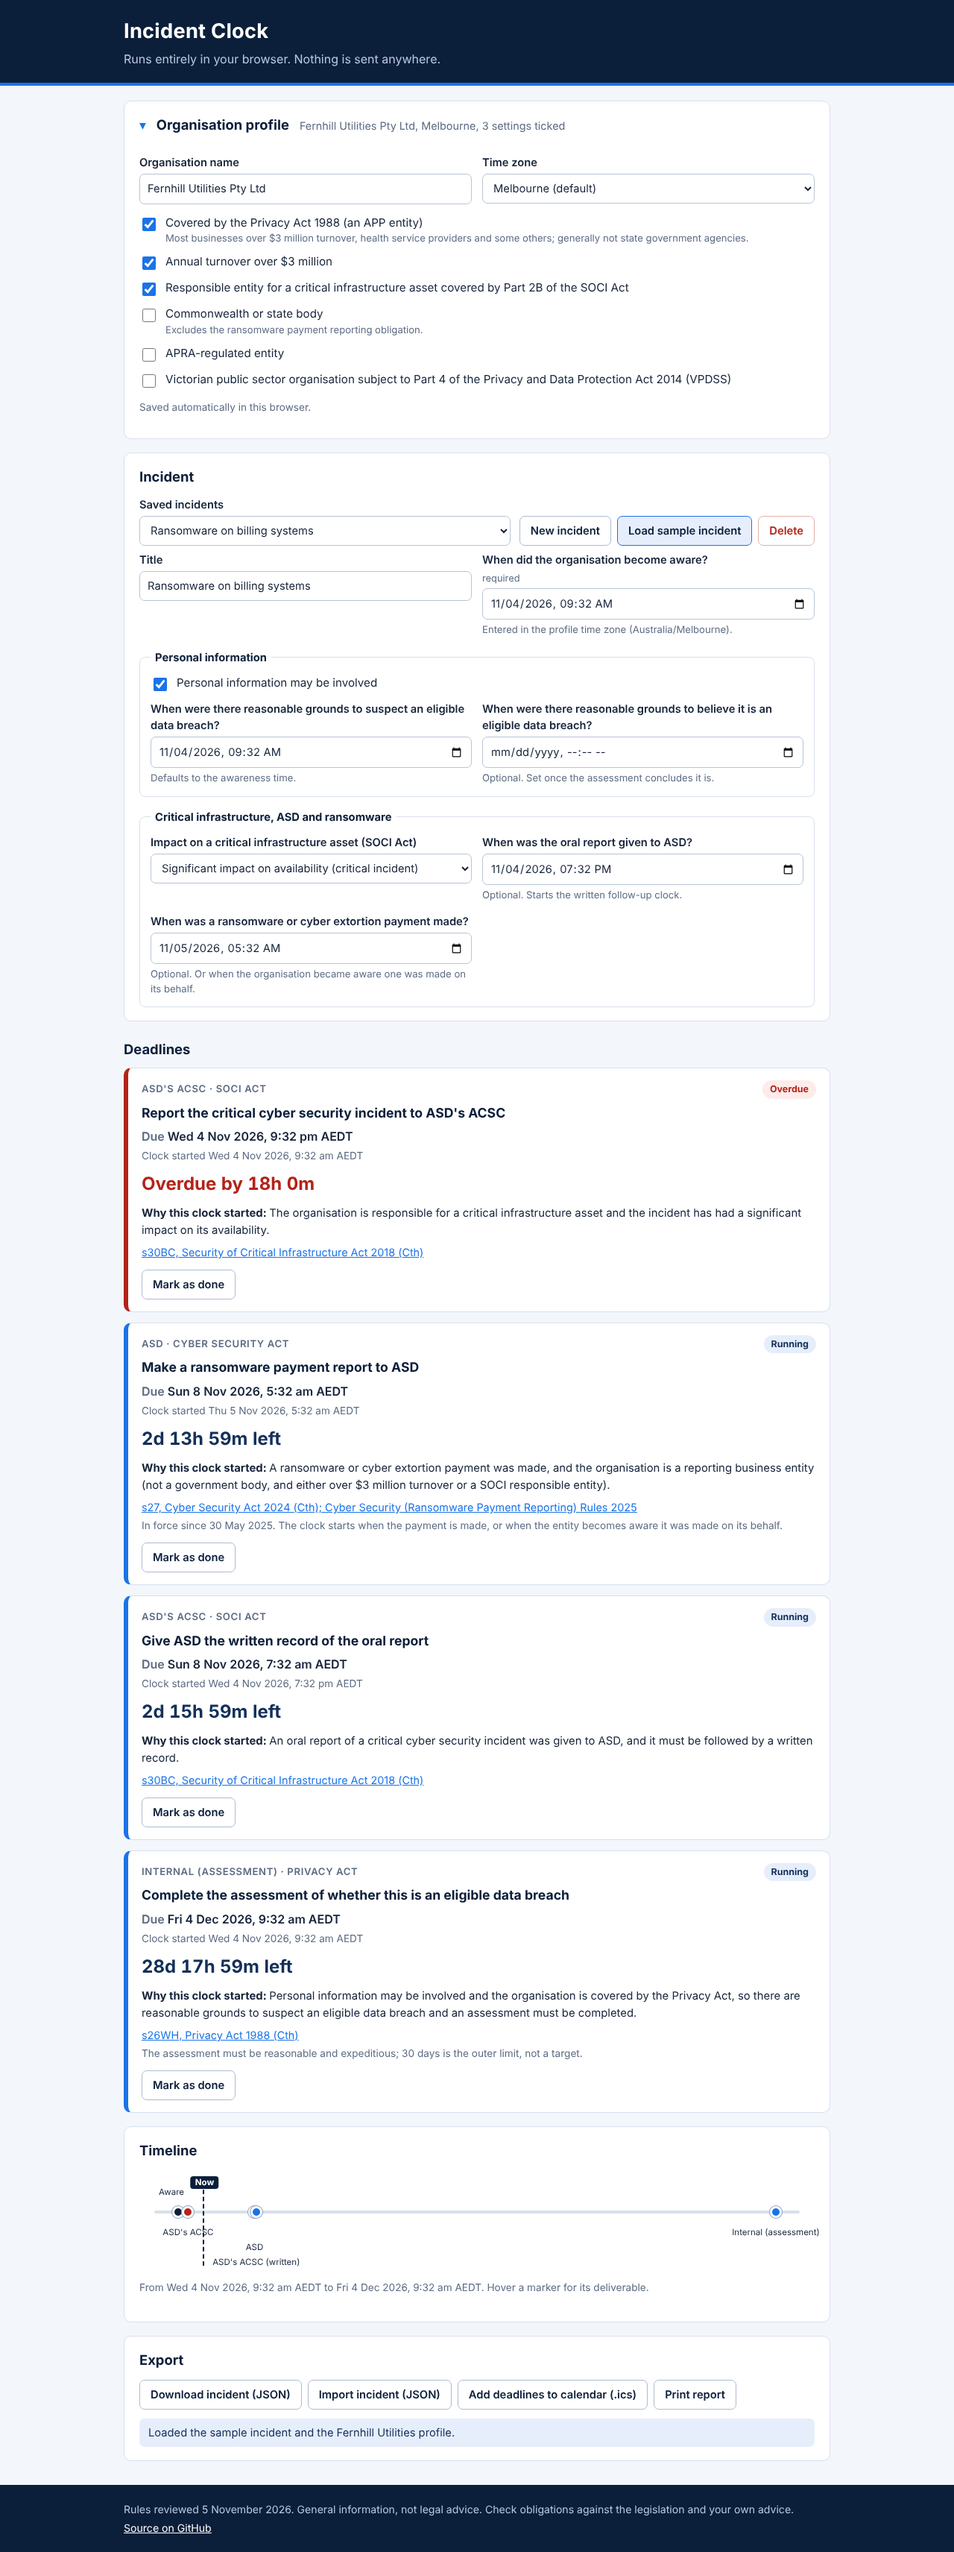
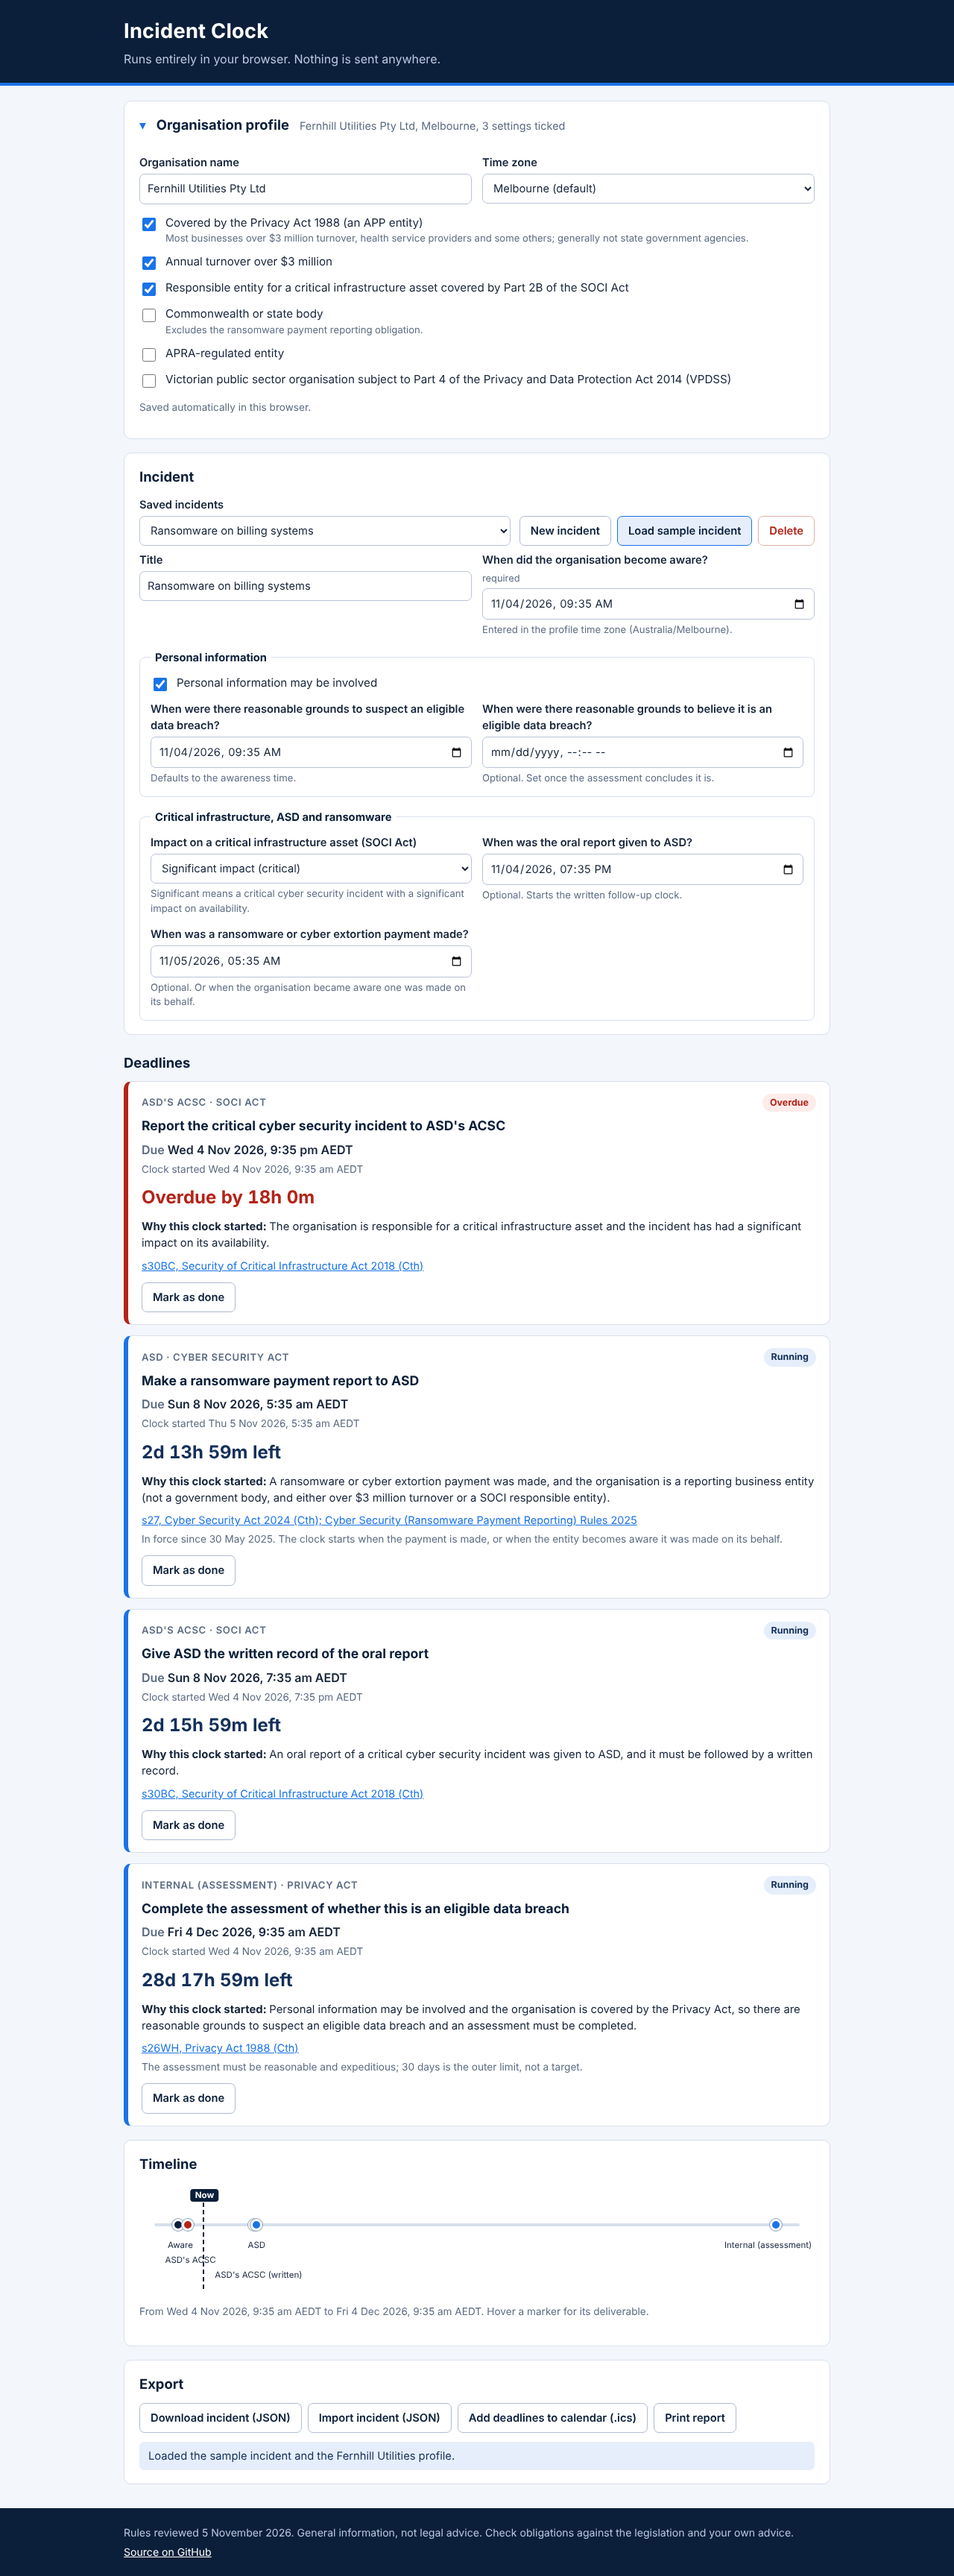
Keep timeline labels apart and fit the impact options on small screens

diff --git a/src/app.js b/src/app.js
@@ -354,19 +354,34 @@ function renderTimeline(clocks, now) {
   const track = h("div", { class: "track" });
   track.append(h("div", { class: "track-line" }));
   track.append(h("div", { class: "marker start", style: `left:${pct(Date.parse(inc.awareAt))}` },
-    h("span", { class: "label lbl-up", text: "Aware" })));
-  let lvl = 0;
-  let prevPos = -Infinity;
-  sorted.forEach((c) => {
-    const pos = (Date.parse(c.dueAt) - lo) / total;
-    lvl = pos - prevPos < 0.16 ? (lvl + 1) % 3 : 0;
-    prevPos = pos;
+    h("span", { class: "label", text: "Aware" })));
+  for (const c of sorted) {
     track.append(h("div", { class: `marker ${c.status}`, style: `left:${pct(Date.parse(c.dueAt))}`, title: `${c.deliverable}: ${formatLocal(c.dueAt, tz())}` },
-      h("span", { class: `label lbl-down l${lvl}`, text: `${c.regulator}${c.id.includes("written") ? " (written)" : ""}` })));
-  });
+      h("span", { class: "label", text: `${c.regulator}${c.id.includes("written") ? " (written)" : ""}` })));
+  }
   track.append(h("div", { class: "now-line", style: `left:${pct(now)}` }, h("span", { text: "Now" })));
   box.replaceChildren(track,
     h("p", { class: "muted small", text: `From ${formatLocal(inc.awareAt, tz())} to ${formatLocal(new Date(endMs).toISOString(), tz())}. Hover a marker for its deliverable.` }));
+  layoutLabels(track);
+}
+
+/** Put each label on the first row below the line where it clears the labels already there. */
+function layoutLabels(track) {
+  const rows = [];
+  const tw = track.clientWidth;
+  const markers = [...track.querySelectorAll(".marker")].sort((a, b) => a.offsetLeft - b.offsetLeft);
+  for (const m of markers) {
+    const el = m.querySelector(".label");
+    const w = el.offsetWidth;
+    const cx = m.offsetLeft + 8;
+    const l = Math.max(-16, Math.min(cx - w / 2, tw + 16 - w));
+    let r = rows.findIndex((row) => row.every(([a, b]) => l >= b + 8 || l + w <= a - 8));
+    if (r < 0) { rows.push([]); r = rows.length - 1; }
+    rows[r].push([l, l + w]);
+    el.style.left = `${l - m.offsetLeft}px`;
+    el.style.top = `${24 + r * 20}px`;
+  }
+  track.style.height = `${84 + Math.max(rows.length, 1) * 20}px`;
 }
 
 /* ---------- tick ---------- */

diff --git a/css/style.css b/css/style.css
@@ -114,11 +114,7 @@ legend { font-weight: 700; color: var(--navy); padding: 0 6px; font-size: .92rem
 .marker.due-soon { background: #d98a00; }
 .marker.done { background: #2f9e62; }
 .marker.start { background: var(--navy); }
-.marker .label { position: absolute; left: 50%; transform: translateX(-50%); font-size: .72rem; color: var(--ink); white-space: nowrap; background: var(--white); padding: 0 3px; }
-.marker.start .lbl-up { bottom: 22px; left: auto; right: -6px; transform: none; }
-.lbl-down.l0 { top: 24px; }
-.lbl-down.l1 { top: 44px; }
-.lbl-down.l2 { top: 64px; }
+.marker .label { position: absolute; left: 0; font-size: .72rem; color: var(--ink); white-space: nowrap; background: var(--white); padding: 0 3px; }
 .now-line { position: absolute; top: 22px; bottom: 6px; width: 0; border-left: 2px dashed var(--navy); }
 .now-line span { position: absolute; top: -18px; left: 50%; transform: translateX(-50%); font-size: .72rem; font-weight: 700; background: var(--navy); color: var(--white); padding: 0 6px; border-radius: 4px; }
 

diff --git a/index.html b/index.html
@@ -93,10 +93,11 @@
           <div class="grid two">
             <label class="field">Impact on a critical infrastructure asset (SOCI Act)
               <select id="f-soci">
-                <option value="none">No impact on the asset</option>
+                <option value="none">No impact</option>
                 <option value="relevant">Relevant impact</option>
-                <option value="significant">Significant impact on availability (critical incident)</option>
+                <option value="significant">Significant impact (critical)</option>
               </select>
+              <small>Significant means a critical cyber security incident with a significant impact on availability.</small>
             </label>
             <label class="field" id="g-oral" hidden>When was the oral report given to ASD?
               <input type="datetime-local" id="f-oral">
